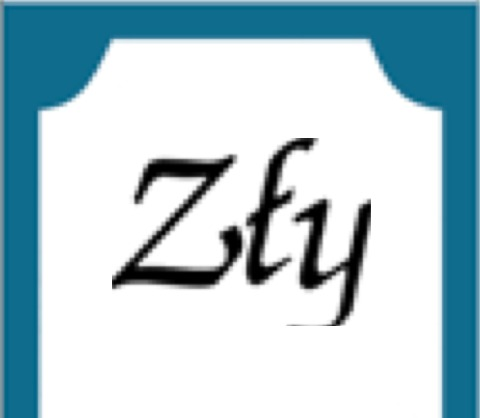
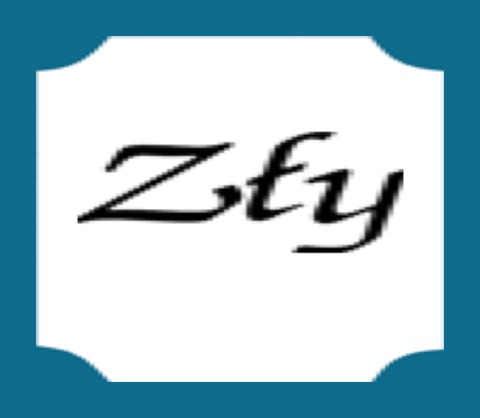
Squash the Karta Zmiany Natury instead of cropping it, and build its border
Cropping to the top kept the shoulders and threw the other two corners away,
which is a card with its bottom out of frame rather than a card. The whole
card is squashed to ART_RATIO now: every proportion in it wrong by the same
amount, which is the kind of wrong the eye forgives, and all four die-cut
corners still there.

The border is built rather than cut, which is the only way it comes out even.
Squashing a card that already carries its printed margin squashes the margin
too, and the top and bottom of the frame end up half the width of the sides.
So the white paper is cut with no margin at all and framed afterwards in an
even one, in blue sampled from just outside the card's own edge.

The words go on before the squash rather than after. Composited afterwards
they would stand upright on a card that does not, which is the one thing here
that reads as a mistake rather than as a choice. And they are centred, not put
back where the print has them: the upper third is what a tall card does with a
short word, and squashed into a landscape frame it becomes a word pinned near
the top with half the card empty under it.

Finding the card by its blue turned out to be the wrong handle — the row
beneath is a blue block running the width of the sheet, joined to this one, so
a search reaching one line into it comes back with the whole page and the
Zamieniony w Kamień card inside. The white paper has edges of its own, and the
border is not being cut from the sheet any more anyway.

Changed region(s): [[0.0625, 0.0622, 0.9375, 1.0], [0.1562, 0.311, 0.8438, 0.7775], [0.0, 0.0, 1.0, 1.0]]

diff --git a/CLAUDE.md b/CLAUDE.md
@@ -149,8 +149,11 @@ is drawn — Bodoni set to match the printed `DOBRY` — and it is the only card
 image in `public/cards/` that was never on a sheet. The two faces are not
 printed alike (`Zły` is die-cut on blue, `DOBRY` is bare lettering on the
 reverse), so the card is cut once from the `Zły` face, its word painted out,
-and all three words set back into the same rectangle on that one plate. Cut to
-`ART_RATIO` like every other illustration. The script is macOS-only (`sips`,
+and all three words set back into the same rectangle on that one plate. The
+card is portrait and `ART_RATIO` is not, so it is **squashed** rather than
+cropped — all four die-cut corners kept, every proportion wrong by the same
+amount — and its blue border is built afterwards at an even margin instead of
+being squashed along with it. The script is macOS-only (`sips`,
 and the system's own Bodoni) like the rest of the pipeline.
 `node scripts/generate-ids.mjs` regenerates `src/data/ids.ts` — the literal
 id types — and must be re-run after anything that renames a card or a
